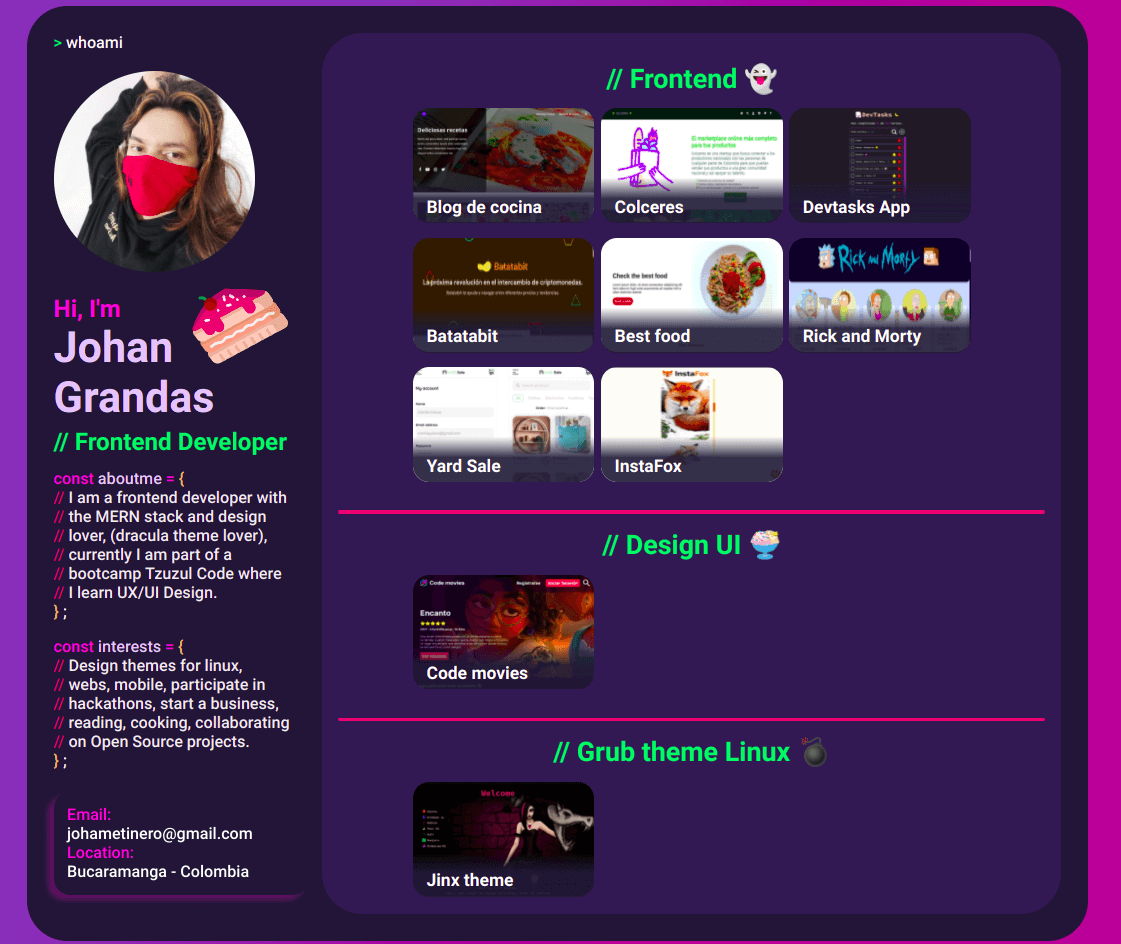
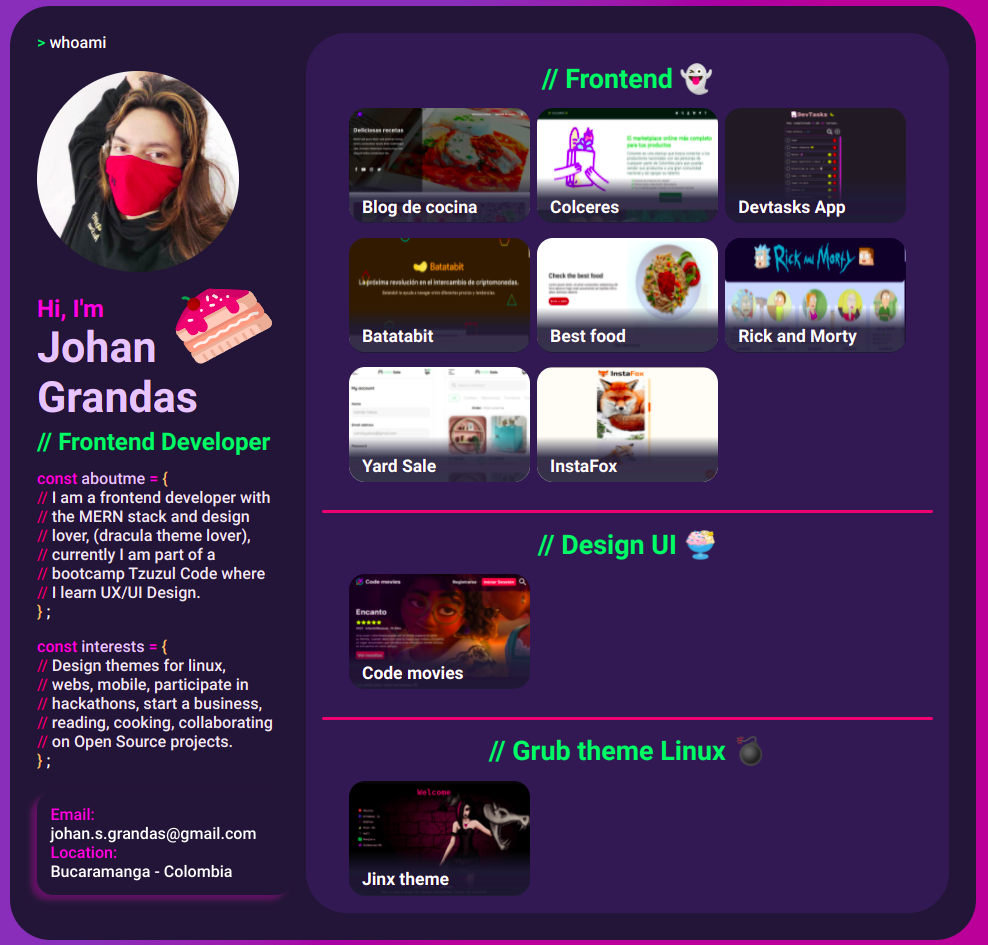
update image

Changed region(s): [[0.0, 0.0, 1.0, 1.0]]

diff --git a/index.html b/index.html
@@ -85,7 +85,7 @@
 
           <div class="contact">
             <p class="contact-title">Email:</p>
-            <p>johametinero@gmail.com</p>
+            <p>johan.s.grandas@gmail.com</p>
             <p class="contact-title">Location:</p>
             <p>Bucaramanga - Colombia</p>
           </div>
